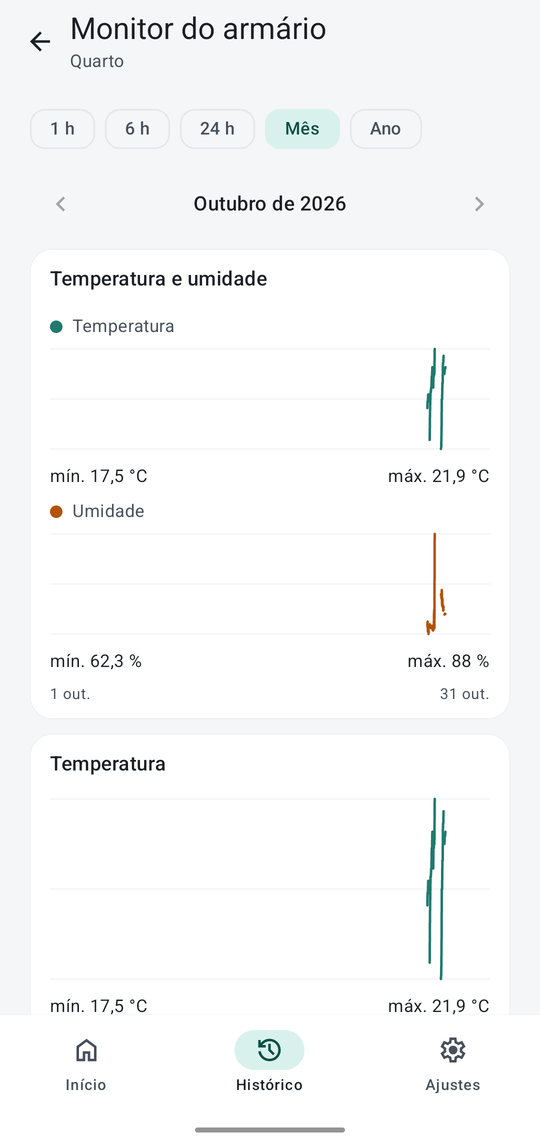
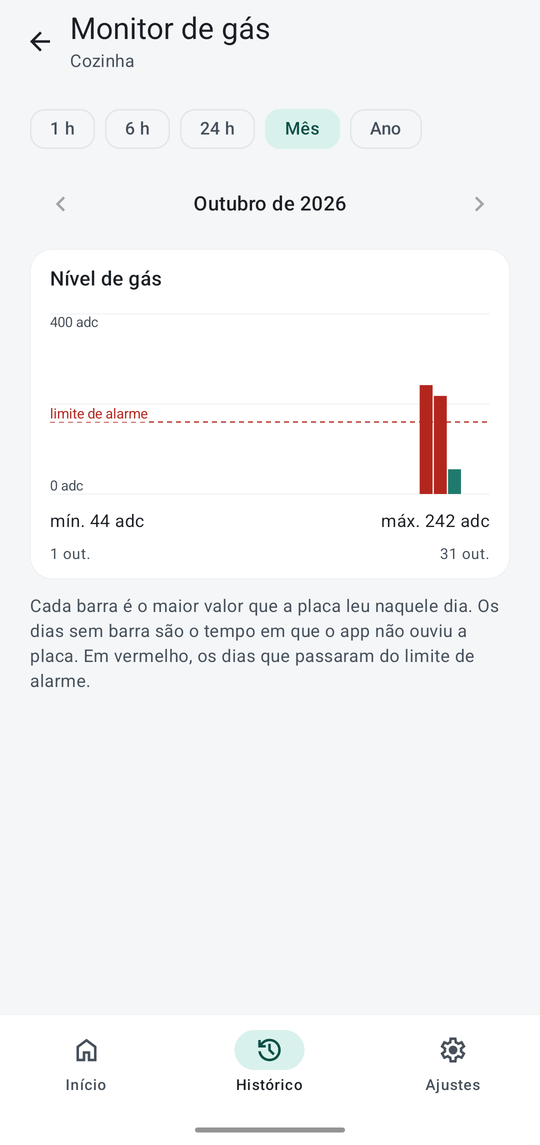
fix(android): read the charts on the phone: whole scale numbers, legible limits
After seeing the charts on the phone:
- a scale widened to a minimum span has whole numbers (16 to 26, not 15,2 to
  25,2) as long as the readings still fit in them
- the words of a limit are at the left, drawn after the line and over a
  background, so peaks and readings near the limit do not cross them out
- in the small band of the comparison, the limits are said in the legend above
  the band, not over it
- new photos of the history in the README: the gas, the gas by the month in bars
  and the closet monitor

diff --git a/android/app/src/main/kotlin/io/github/gustavommcv/ciscsmarthome/ui/history/LineChart.kt b/android/app/src/main/kotlin/io/github/gustavommcv/ciscsmarthome/ui/history/LineChart.kt
@@ -42,16 +42,17 @@ private val PlotPadding = 8.dp
 
 private const val FILL_ALPHA = 0.18f
 private const val BAND_ALPHA = 0.16f
+private const val LABEL_GROUND_ALPHA = 0.85f
 
 /** A line drawn over a chart, with its words: where it is in the range ([fraction], 0 at the bottom to 1 at the top), and what it is. */
 internal data class LimitLine(val fraction: Float, val label: String, val kind: LimitKind)
 
 /** The colors of the chart: the line, the one for what is over the limit of an alarm, and a quiet one for the other limits, which are not the color of a line. */
-private class ChartColors(val line: Color, val alarm: Color, val limit: Color, val grid: Color, val text: Color)
+private class ChartColors(val line: Color, val alarm: Color, val limit: Color, val grid: Color, val text: Color, val ground: Color)
 
 @Composable
 private fun chartColors(line: Color): ChartColors =
-  MaterialTheme.colorScheme.let { ChartColors(line, it.error, it.onSurfaceVariant, it.outlineVariant, it.onSurfaceVariant) }
+  MaterialTheme.colorScheme.let { ChartColors(line, it.error, it.onSurfaceVariant, it.outlineVariant, it.onSurfaceVariant, it.surface) }
 
 private fun LimitLine.isAlarm() = kind == LimitKind.Alarm
 
@@ -68,22 +69,26 @@ private fun DrawScope.drawGrid(range: ChartRange, colors: ChartColors, measurer:
   drawText(low, topLeft = Offset(0f, padding + plotHeight - low.size.height))
 }
 
-private fun DrawScope.drawLimits(limits: List<LimitLine>, colors: ChartColors, measurer: TextMeasurer, padding: Float, plotHeight: Float) {
+private fun DrawScope.drawLimits(limits: List<LimitLine>, colors: ChartColors, measurer: TextMeasurer, padding: Float, plotHeight: Float, withLines: Boolean = true, withWords: Boolean = true) {
   limits.forEach { limit ->
     val y = padding + (1 - limit.fraction) * plotHeight
     val color = if (limit.isAlarm()) colors.alarm else colors.limit
-    drawLine(color, Offset(0f, y), Offset(size.width, y), strokeWidth = LimitWidth.toPx(), pathEffect = PathEffect.dashPathEffect(floatArrayOf(10f, 8f)))
+    if (withLines) drawLine(color, Offset(0f, y), Offset(size.width, y), strokeWidth = LimitWidth.toPx(), pathEffect = PathEffect.dashPathEffect(floatArrayOf(10f, 8f)))
+    if (!withWords) return@forEach
     val text = measurer.measure(limit.label, TextStyle(color = color, fontSize = LabelSize))
-    // The words sit over the line, at the right; the limit that is the upper one of two has them over it and the other one under it, so they do not overlap.
+    // The words sit at the left, where the recent readings (and the peaks) are not; the limit that is the upper one of two has them over it and the other one under it.
     val above = limit.kind != LimitKind.DehumidifierOff
-    drawText(text, topLeft = Offset(size.width - text.size.width, if (above) y - text.size.height else y))
+    val top = if (above) y - text.size.height else y
+    // The words have the color of the card behind them, so a line of readings near the limit does not cross them out.
+    drawRect(colors.ground.copy(alpha = LABEL_GROUND_ALPHA), Offset(0f, top), Size(text.size.width.toFloat(), text.size.height.toFloat()))
+    drawText(text, topLeft = Offset(0f, top))
   }
 }
 
 /**
  * A line chart, drawn by hand: one line, in the [line] color (the color of the app by default), over three lines of grid with the numbers of the bottom and the
  * top of its range. Each stretch the app heard is a line of its own, so the time it heard nothing stays empty, and a stretch of a single reading is a dot.
- * The [limits] are dashed lines over it with their words; what the line does above the limit of an alarm is drawn in the color of an alert; the space between
+ * The [limits] are dashed lines over it with their words (unless [limitWords] is false, for a band too small to hold them: the screen says them above it); what the line does above the limit of an alarm is drawn in the color of an alert; the space between
  * the two limits of the dehumidifier is shaded; and with [fillBelow] the space under the line is washed with its color. [description] is what a screen reader says.
  */
 @Composable
@@ -96,6 +101,7 @@ internal fun LineChart(
   limits: List<LimitLine> = emptyList(),
   fillBelow: Boolean = false,
   unit: String? = null,
+  limitWords: Boolean = true,
 ) {
   val colors = chartColors(line)
   val measurer = rememberTextMeasurer()
@@ -122,7 +128,7 @@ internal fun LineChart(
         drawPath(area, colors.line.copy(alpha = FILL_ALPHA))
       }
     }
-    drawLimits(limits, colors, measurer, padding, plotHeight)
+    drawLimits(limits, colors, measurer, padding, plotHeight, withLines = true, withWords = false)
     val alarmY = limits.firstOrNull { it.isAlarm() }?.let { padding + (1 - it.fraction) * plotHeight }
     fun DrawScope.strokes(color: Color) {
       chart.lines.forEach { points ->
@@ -138,6 +144,8 @@ internal fun LineChart(
     strokes(colors.line)
     // What is over the limit of an alarm is drawn again, in the color of an alert, clipped to the part of the chart above the limit.
     if (alarmY != null) clipRect(left = 0f, top = 0f, right = size.width, bottom = alarmY) { strokes(colors.alarm) }
+    // The words come last, over the line, with the color of the card behind them, so a line of readings near the limit does not cross them out.
+    drawLimits(limits, colors, measurer, padding, plotHeight, withLines = false, withWords = limitWords)
   }
 }
 

diff --git a/android/app/src/main/kotlin/io/github/gustavommcv/ciscsmarthome/ui/history/HistoryScreen.kt b/android/app/src/main/kotlin/io/github/gustavommcv/ciscsmarthome/ui/history/HistoryScreen.kt
@@ -190,7 +190,9 @@ private fun LaneBody(lane: Lane, color: Color, window: ChartWindow, zone: ZoneId
   if (showName) {
     Row(modifier = Modifier.padding(top = Spacing.S), verticalAlignment = Alignment.CenterVertically, horizontalArrangement = Arrangement.spacedBy(Spacing.S)) {
       Box(Modifier.size(Swatch).background(color, CircleShape))
-      Text(label, style = MaterialTheme.typography.bodyMedium, color = quiet)
+      // A band is too small for the words of its limits over the chart, so they are said here, next to its name.
+      val limitWords = lane.limits.joinToString(", ") { resources.limitText(it) }
+      Text(if (limitWords.isEmpty()) label else "$label · $limitWords", style = MaterialTheme.typography.bodyMedium, color = quiet)
     }
   }
   val chart = lane.chart
@@ -220,6 +222,7 @@ private fun LaneBody(lane: Lane, color: Color, window: ChartWindow, zone: ZoneId
         limits = limits,
         fillBelow = DeviceCatalog.chartOf(lane.sensor.id).fillBelow,
         unit = unit,
+        limitWords = !showName,
       )
       MinMaxRow(resources.minText(chart.min, unit), resources.maxText(chart.max, unit))
     }

diff --git a/android/app/src/main/kotlin/io/github/gustavommcv/ciscsmarthome/domain/DeviceCatalog.kt b/android/app/src/main/kotlin/io/github/gustavommcv/ciscsmarthome/domain/DeviceCatalog.kt
@@ -1,5 +1,7 @@
 package io.github.gustavommcv.ciscsmarthome.domain
 
+import kotlin.math.floor
+
 /** What a sensor measures. The charts are chosen by it, not by the device the sensor is in, so a new device with a temperature sensor is charted as the others are. */
 enum class SensorKind { Gas, Temperature, Humidity, Generic }
 
@@ -33,8 +35,15 @@ data class ChartScale(val atLeast: ClosedFloatingPointRange<Double>? = null, val
     }
     if (minSpan != null && high - low < minSpan) {
       val middle = (low + high) / 2
-      low = middle - minSpan / 2
-      high = middle + minSpan / 2
+      // The numbers of the scale are whole when they can be (15 to 25, not 15.2 to 25.2), as long as the readings still fit in them.
+      val whole = floor(middle - minSpan / 2)
+      if (whole <= low && whole + minSpan >= high) {
+        low = whole
+        high = whole + minSpan
+      } else {
+        low = middle - minSpan / 2
+        high = middle + minSpan / 2
+      }
     }
     return ChartRange(low, high)
   }

diff --git a/android/app/src/test/kotlin/io/github/gustavommcv/ciscsmarthome/domain/ChartScaleTest.kt b/android/app/src/test/kotlin/io/github/gustavommcv/ciscsmarthome/domain/ChartScaleTest.kt
@@ -33,6 +33,18 @@ class ChartScaleTest {
   }
 
   @Test
+  fun `the numbers of a widened scale are whole, so the readings are in 15 to 25 and not in 15,2 to 25,2`() {
+    assertEquals(ChartRange(15.0, 25.0), range(ChartScale(minSpan = 10.0), 17.5, 22.9))
+  }
+
+  @Test
+  fun `the numbers are not made whole when the readings would not fit in them`() {
+    val range = range(ChartScale(minSpan = 10.0), 14.9, 24.8)
+    assertEquals(14.85, range.low, 0.0001)
+    assertEquals(24.85, range.high, 0.0001)
+  }
+
+  @Test
   fun `a span that is wide enough is left as it is`() {
     assertEquals(ChartRange(12.0, 30.0), range(ChartScale(minSpan = 10.0), 12.0, 30.0))
   }

diff --git a/android/README.md b/android/README.md
@@ -10,7 +10,7 @@ As telas, tiradas de um celular de verdade (um Moto G85) ligado à maquete.
 
 | Início | Cômodo | Histórico |
 |:---:|:---:|:---:|
-| <img src="../docs/imagens/inicio-claro.png" width="250" alt="A tela de início: o resumo da casa (tudo certo) e um cartão para a cozinha e outro para o quarto, com a barra de baixo"> | <img src="../docs/imagens/comodo-quarto.png" width="250" alt="O quarto: o cartão do monitor do armário, com temperatura, umidade, o interruptor do desumidificador, a escolha entre automático e manual e os limites de umidade (liga a partir de 85 % e desliga até 83 %, cada um com menos e mais), um lápis para editar o cômodo e o dispositivo, e os cartões bloqueados Adicionar dispositivo e Excluir cômodo"> | <img src="../docs/imagens/historico.png" width="250" alt="O histórico do monitor do armário: o gráfico que compara a temperatura e a umidade, uma faixa sobre a outra, cada uma na sua escala e na sua cor, e depois um gráfico só da temperatura; no alto, a escolha do período (1 h, 6 h ou 24 h)"> |
+| <img src="../docs/imagens/inicio-claro.png" width="250" alt="A tela de início: o resumo da casa (tudo certo) e um cartão para a cozinha e outro para o quarto, com a barra de baixo"> | <img src="../docs/imagens/comodo-quarto.png" width="250" alt="O quarto: o cartão do monitor do armário, com temperatura, umidade, o interruptor do desumidificador, a escolha entre automático e manual e os limites de umidade (liga a partir de 85 % e desliga até 83 %, cada um com menos e mais), um lápis para editar o cômodo e o dispositivo, e os cartões bloqueados Adicionar dispositivo e Excluir cômodo"> | <img src="../docs/imagens/historico.png" width="250" alt="O histórico do monitor do armário: o gráfico que compara a temperatura e a umidade, uma faixa sobre a outra, cada uma na sua escala e na sua cor, com a faixa em que o desumidificador liga e desliga sobre a umidade, e depois um gráfico só da temperatura; no alto, a escolha do período"> |
 
 | Vazamento de gás (tema escuro) | Ajustes | Editar o cômodo |
 |:---:|:---:|:---:|
@@ -20,9 +20,9 @@ As telas, tiradas de um celular de verdade (um Moto G85) ligado à maquete.
 |:---:|:---:|:---:|
 | <img src="../docs/imagens/comodo-cozinha.png" width="250" alt="A cozinha: o cartão do monitor de gás, com o nível de gás, os vazamentos, a válvula, o interruptor do buzzer da placa e o aviso no celular, com três escolhas: Alarme (marcada), Notificação e Desligado"> | <img src="../docs/imagens/desligar-aviso.png" width="250" alt="A pergunta ao desligar o aviso: O celular não vai avisar de um vazamento de gás neste cômodo. A placa continua apitando e fechando a válvula, com os botões Cancelar e Desligar"> | <img src="../docs/imagens/historico-lista.png" width="250" alt="A aba Histórico: a lista dos dispositivos que têm leituras, o monitor de gás (Cozinha, 1 gráfico) e o monitor do armário (Quarto, 3 gráficos), cada um num cartão que se toca para abrir seus gráficos"> |
 
-| Histórico: o mês |
-|:---:|
-| <img src="../docs/imagens/historico-mes.png" width="250" alt="O histórico do monitor do armário no período Mês: duas setas e o nome do mês, Outubro de 2026, a comparação da temperatura e da umidade em duas faixas, de 1 out. a 31 out., e depois o gráfico só da temperatura; só há dois dias de leituras, por isso as linhas são estreitas"> |
+| Histórico: o mês | Histórico: o gás |
+|:---:|:---:|
+| <img src="../docs/imagens/historico-mes.png" width="250" alt="O histórico do monitor de gás no período Mês: duas setas e o nome do mês, Outubro de 2026, e uma barra por dia com o maior valor, vermelhas nos dias que passaram da linha tracejada do limite de alarme; só há três dias de leituras"> | <img src="../docs/imagens/historico-gas.png" width="250" alt="O histórico do monitor de gás nas últimas 6 horas: a escala de 0 a 400, a linha tracejada do limite de alarme, a área sob a linha e, em vermelho, o pico que passou do limite"> |
 
 As imagens mostram só o app: a barra de status do celular foi cortada. Para refazê-las, com o celular em modo de depuração e ligado à maquete, use `adb exec-out screencap -p > tela.png` e corte os primeiros 110 pixels de cima.
 
